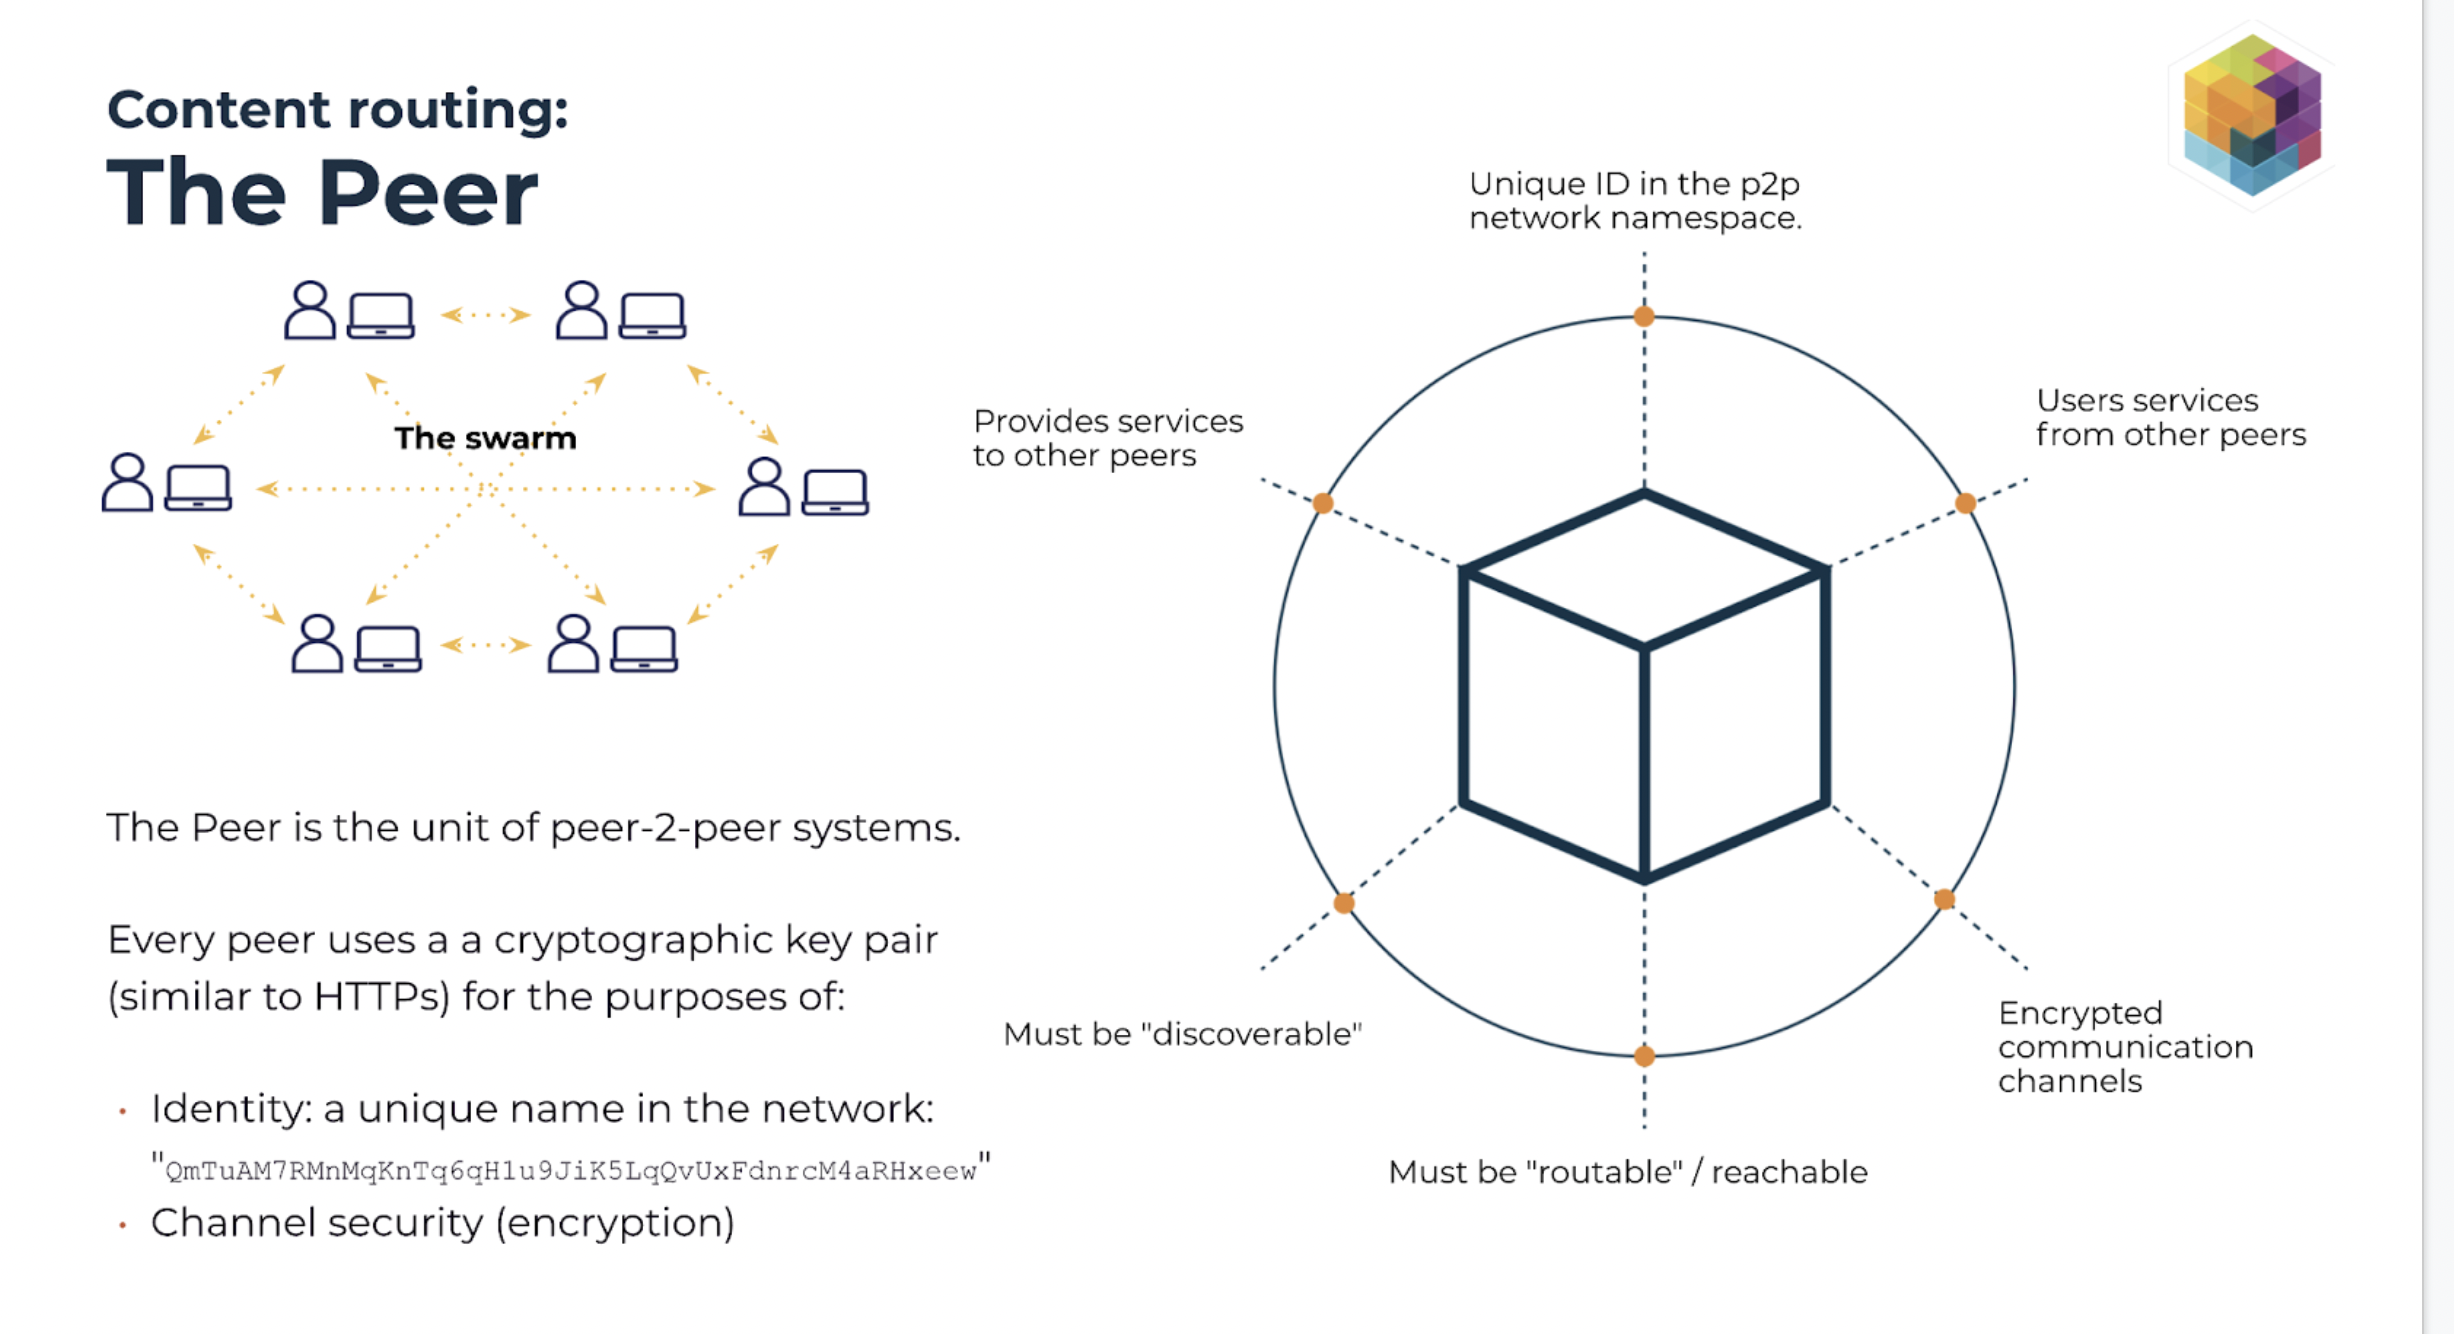
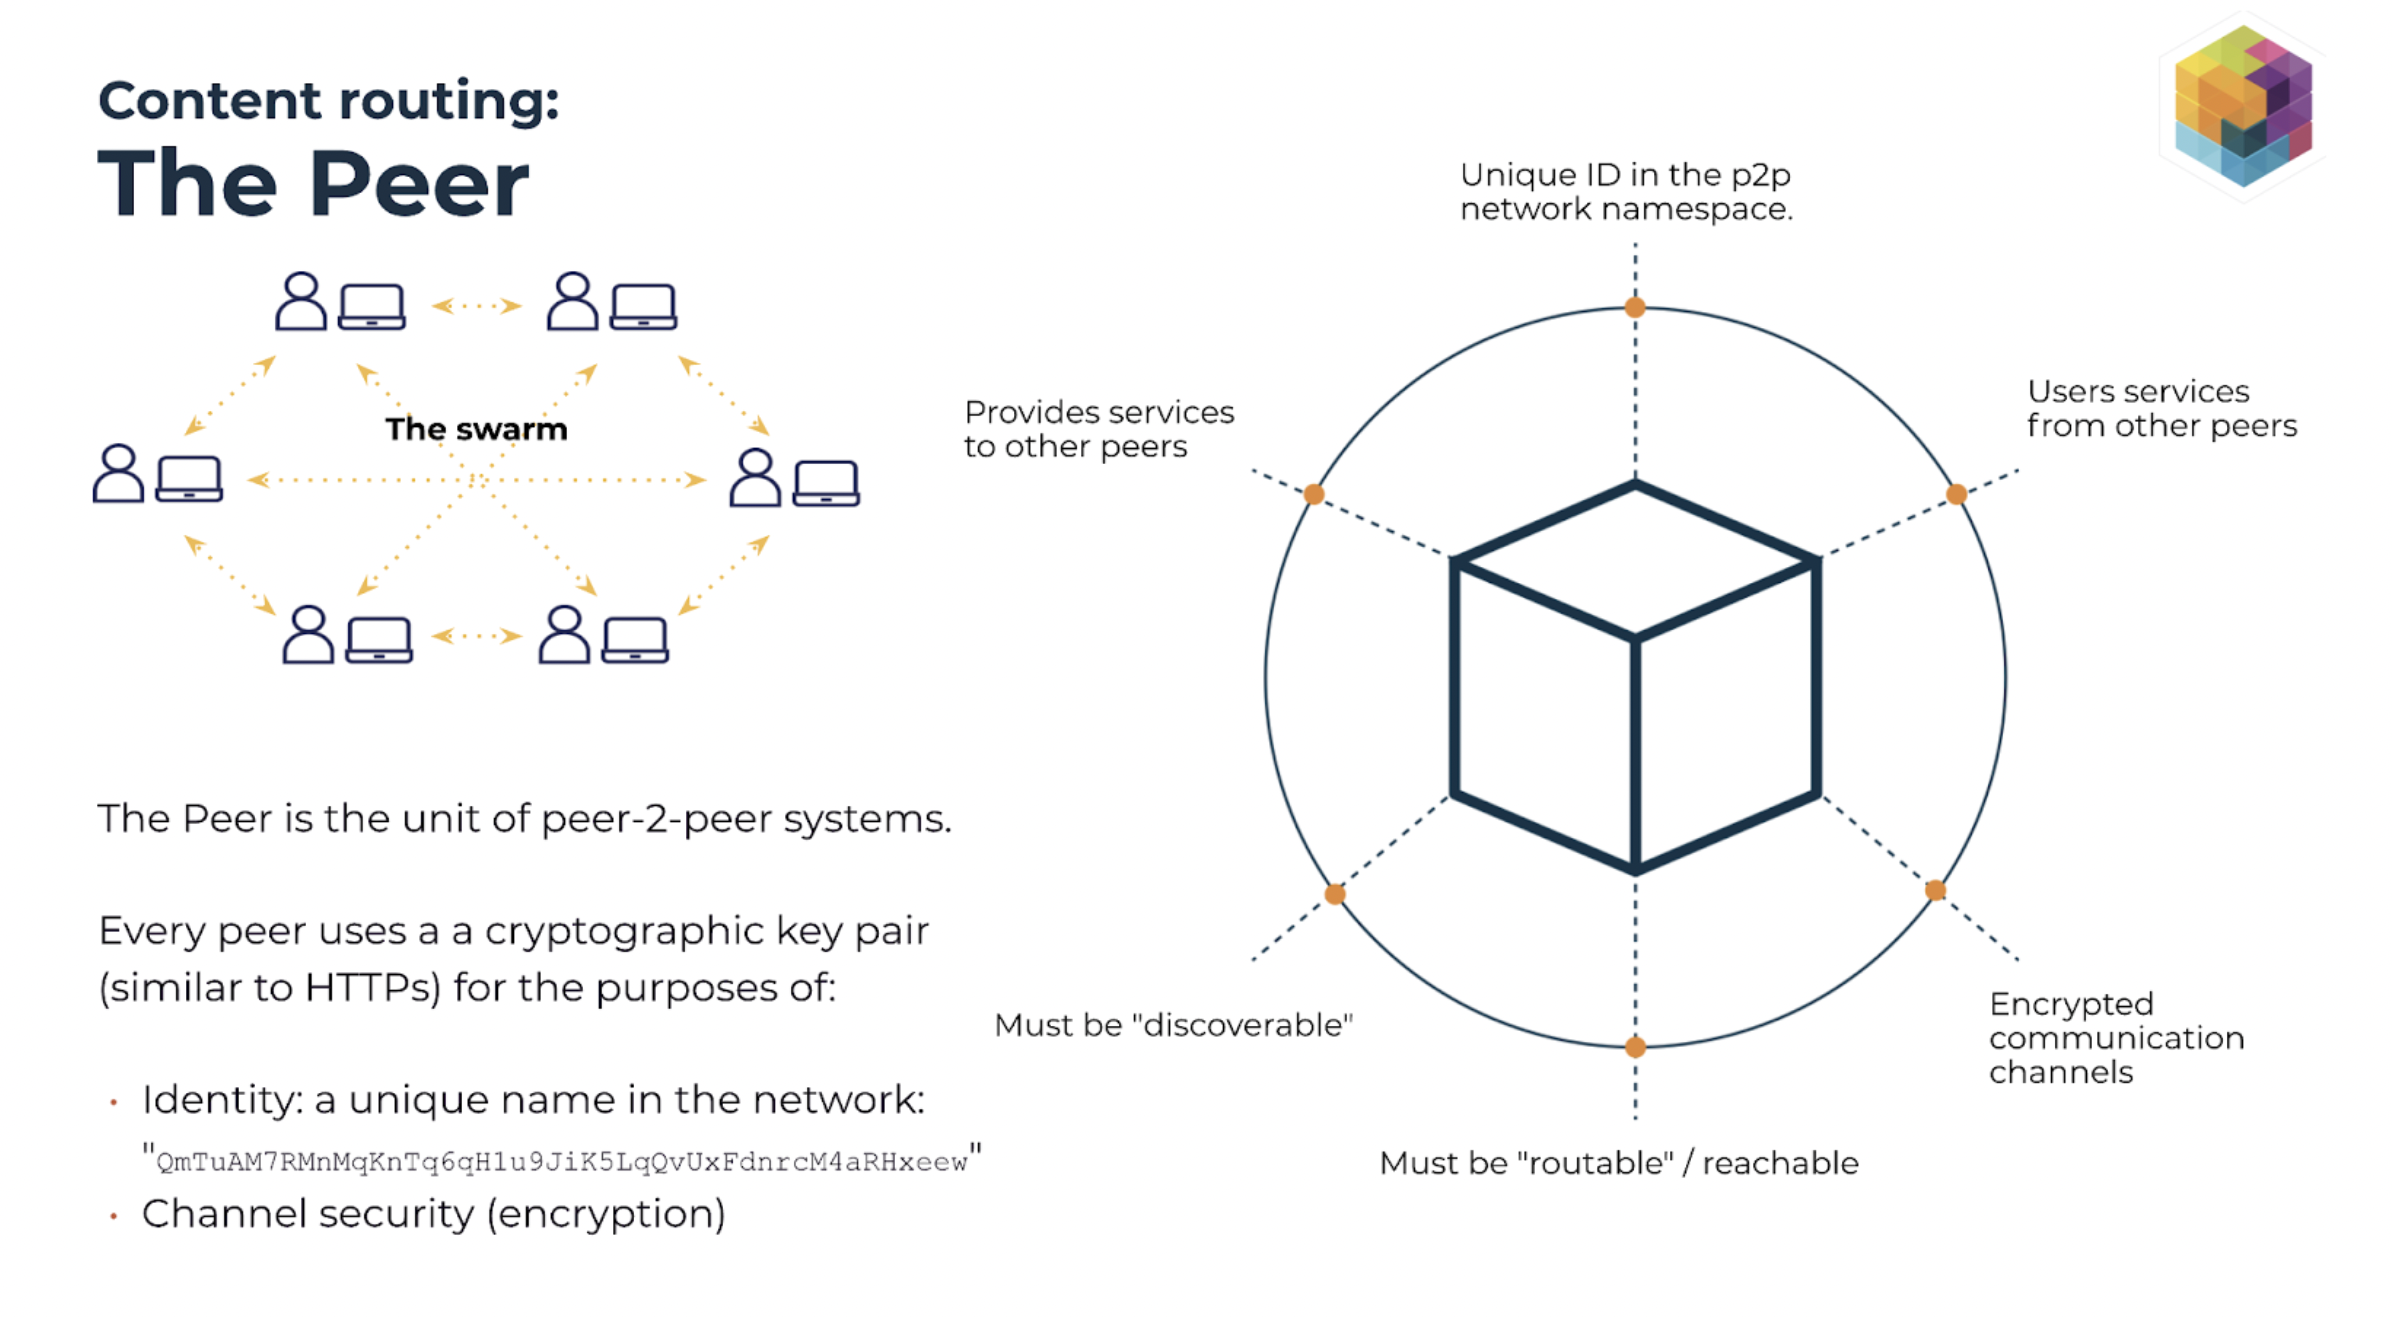
minor typo, edited pic crop

diff --git a/docs/ipfs/ipfs-public-dht.md b/docs/ipfs/ipfs-public-dht.md
@@ -7,9 +7,9 @@ The public distributed hash table is the record of content that is used, along w
 
 ### Nodes, Peers, and the Swarm
 
-A **Peer** on the IPFS network who has a node connected and relays and/or store information on the network. You can either search peers using the DHT and Kademlia, or be directly connected to a peer. The set of peers that you (as a peer) are connected to directly is called a swarm.
+A **Peer** on the IPFS network who has a node connected and relays and/or store information on the network. You can either search peers using the DHT and Kademlia, or be directly connected to a peer. The set of peers that you (as a peer) are connected to directly is called a **swarm**.
 
-![Pinning IPFS](<../../.gitbook/assets/peer-swarm.png>)
+![Peer and Swarm Diagram](<../../.gitbook/assets/peer-swarm.png>)
 
 **[IPFS Nodes](https://docs.ipfs.io/concepts/nodes/#types)** are programs that run on a computer that can exchange data with other IPFS nodes. **[Bootstrap nodes](https://docs.ipfs.io/concepts/nodes/#bootstrap)** are used when a new node initially enters the IPFS network.
 
